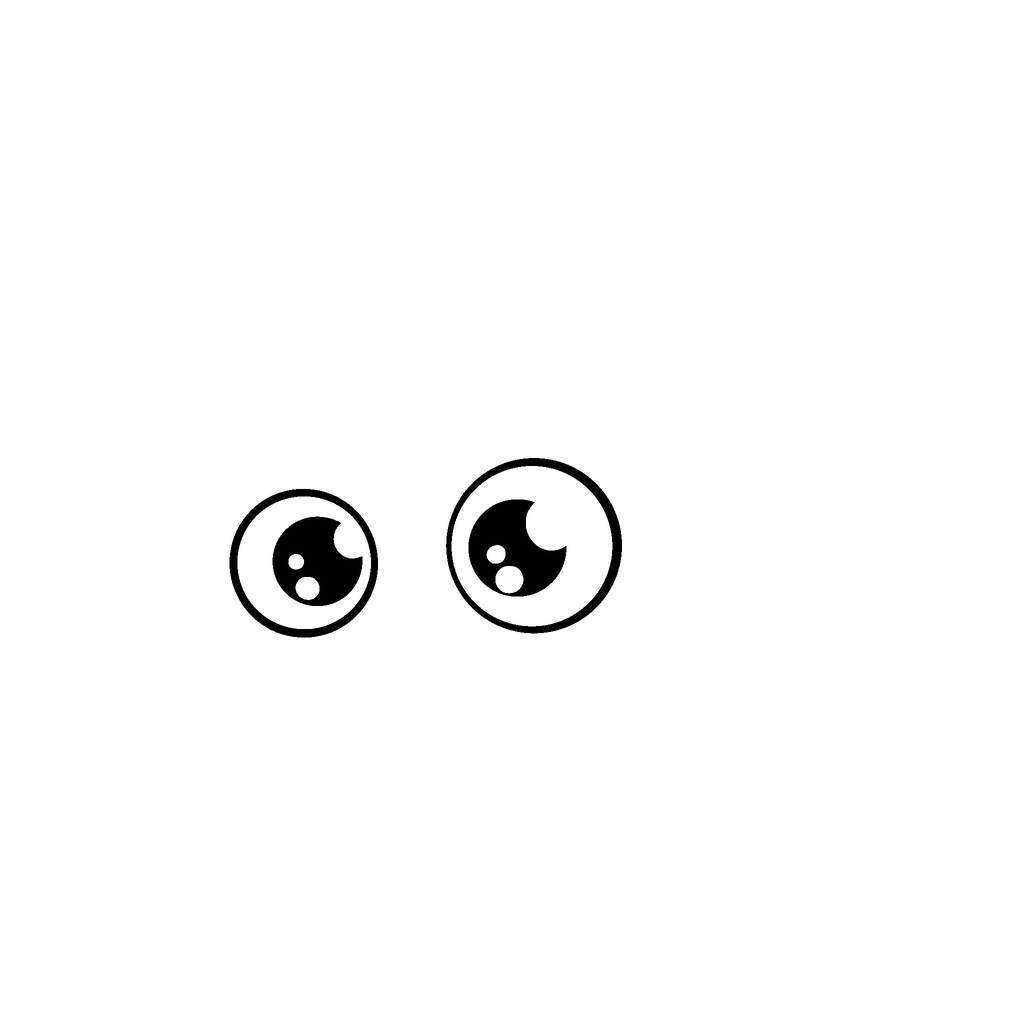
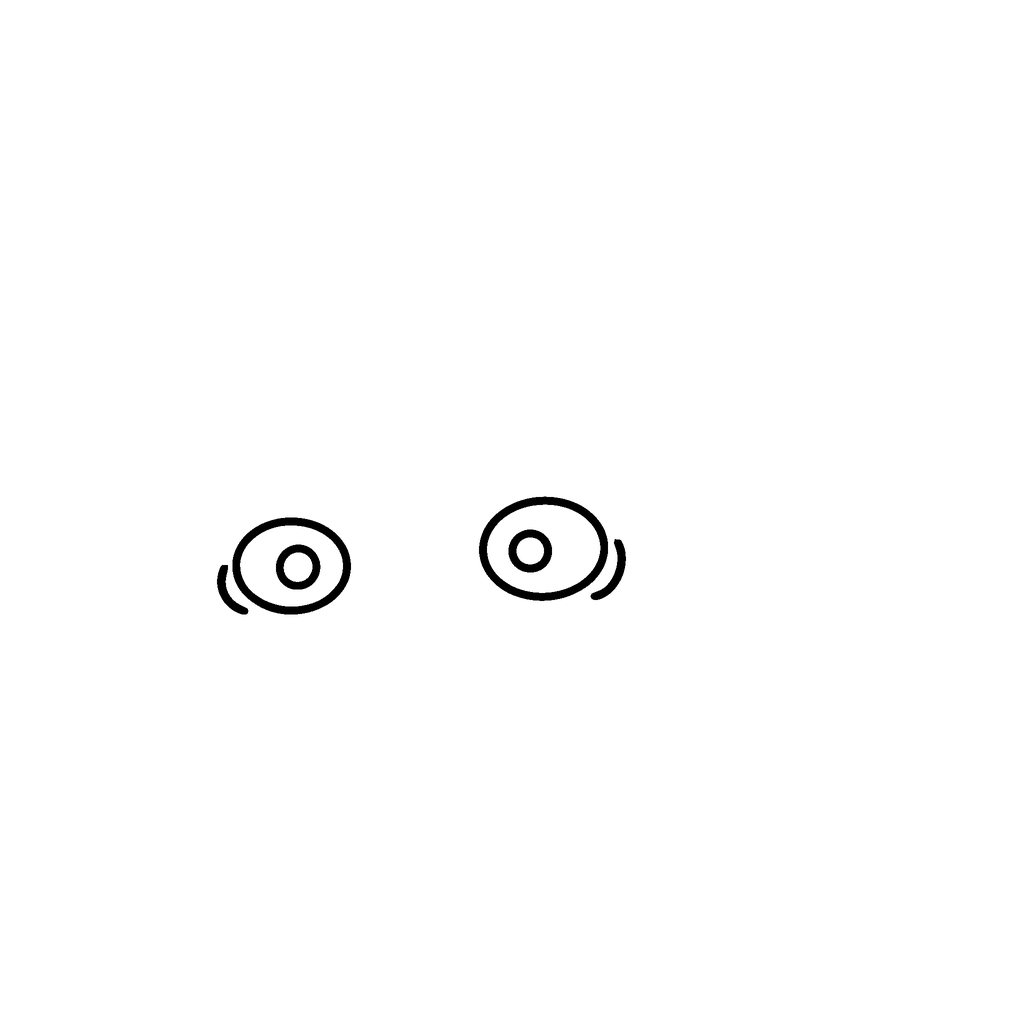
feat(assets): 眼睛扩到 24 款、嘴型扩到 17 款
- 眼睛：库内导出 20 款 + 自绘高光 4 款
- 嘴：库内导出 17 款（覆盖微笑/露齿/吐舌/O 型等）
- 素材总数 67，预算与 PLAN 同步，快照重建

Changed region(s): [[0.4375, 0.4375, 0.625, 0.625], [0.1875, 0.4688, 0.375, 0.625]]

diff --git a/scripts/import_adventurer.py b/scripts/import_adventurer.py
@@ -36,10 +36,10 @@ CURATED: dict[str, tuple[str, bool, str, list[int]]] = {
         "hair", True, "hair_straight_01", [1, 5, 9, 10, 15, 17, 19, 21, 22, 25, 32, 39, 41]
     ),
     "05_eyes": (
-        "eyes", False, "eyes_round_01", [8, 9, 10, 15, 19, 21, 22, 23, 24, 26]
+        "eyes", False, "eyes_round_01", [1, 2, 3, 4, 5, 6, 7, 8, 9, 10, 11, 12, 13, 14, 15, 16, 17, 18, 19, 20]
     ),
     "06_brows": ("eyebrows", True, "brows_soft_01", [1, 4, 8, 12]),
-    "07_mouth": ("mouth", False, "mouth_smile_01", [1, 2, 3, 4, 5, 9, 16]),
+    "07_mouth": ("mouth", False, "mouth_smile_01", [1, 2, 3, 4, 5, 6, 7, 8, 9, 10, 11, 12, 13, 14, 15, 16, 26]),
     "08_glasses": ("glasses", False, "glasses_round_01", [1, 2, 3, 4, 5]),
 }
 

diff --git a/tests/test_docs.py b/tests/test_docs.py
@@ -266,8 +266,8 @@ class TestPlanDocument(MarkdownDocChecks, unittest.TestCase):
                 declared_total = int(cells[1])
 
         self.assertEqual(len(per_slot), 6, "预算表应覆盖 6 个面部槽位")
-        self.assertEqual(sum(per_slot.values()), 47, "预算表各槽位之和应为 48")
-        self.assertEqual(declared_total, 47, "合计行应写 48，与逐项之和一致")
+        self.assertEqual(sum(per_slot.values()), 67, "预算表各槽位之和应为 48")
+        self.assertEqual(declared_total, 67, "合计行应写 48，与逐项之和一致")
 
 
 class TestCollaborationDocument(MarkdownDocChecks, unittest.TestCase):

diff --git a/tests/test_assets.py b/tests/test_assets.py
@@ -78,13 +78,13 @@ def test_budget_matches_plan() -> None:
     budget = {
         SlotId.SKIN: 2,
         SlotId.HAIR: 15,
-        SlotId.EYES: 14,
+        SlotId.EYES: 24,
         SlotId.BROWS: 4,
-        SlotId.MOUTH: 7,
+        SlotId.MOUTH: 17,
         SlotId.GLASSES: 5,
     }
     catalog = scan(ASSETS)
 
     for slot_id, expected in budget.items():
         assert len(catalog[slot_id]) == expected, f"{slot_id} 应有 {expected} 张，实际 {len(catalog[slot_id])} 张"
-    assert sum(len(assets) for assets in catalog.values()) == 47
+    assert sum(len(assets) for assets in catalog.values()) == 67

diff --git a/docs/PLAN.md b/docs/PLAN.md
@@ -115,11 +115,11 @@ CREATE INDEX idx_works_created ON works(created_at DESC);
 | --- | --- | --- |
 | skin | 2 | 标准脸、窄脸（可换 6 种肤色） |
 | hair | 15 | 短发、波波头、长发、丸子头、马尾、卷发、爆炸头、秃头、飞机头 |
-| eyes | 14 | 圆眼、弯眼、侧看、眨眼、半闭、星星眼、自定义高光款 |
+| eyes | 24 | 20 款库内眼睛 + 4 款自绘高光眼 |
 | brows | 4 | 平眉、弯眉、挑眉、粗眉 |
-| mouth | 7 | 微笑、露齿、撇嘴、吐舌、O 型等 |
+| mouth | 17 | 库内嘴型全量导出，覆盖微笑/露齿/撇嘴/吐舌等 |
 | glasses | 5 | 圆框、方框、墨镜、半框、护目镜 |
-| 合计 | 47 | 本期只做面部 |
+| 合计 | 67 | 本期只做面部 |
 
 素材规格：1024×1024、RGBA、透明背景，命名 `<槽位>_<形状>_<两位序号>.png`，单张 ≤ 80KB。
 对齐基线：头顶 y=170、眼睛 y=460、脸中心 y=500、嘴 y=620、肩线 y=880。
